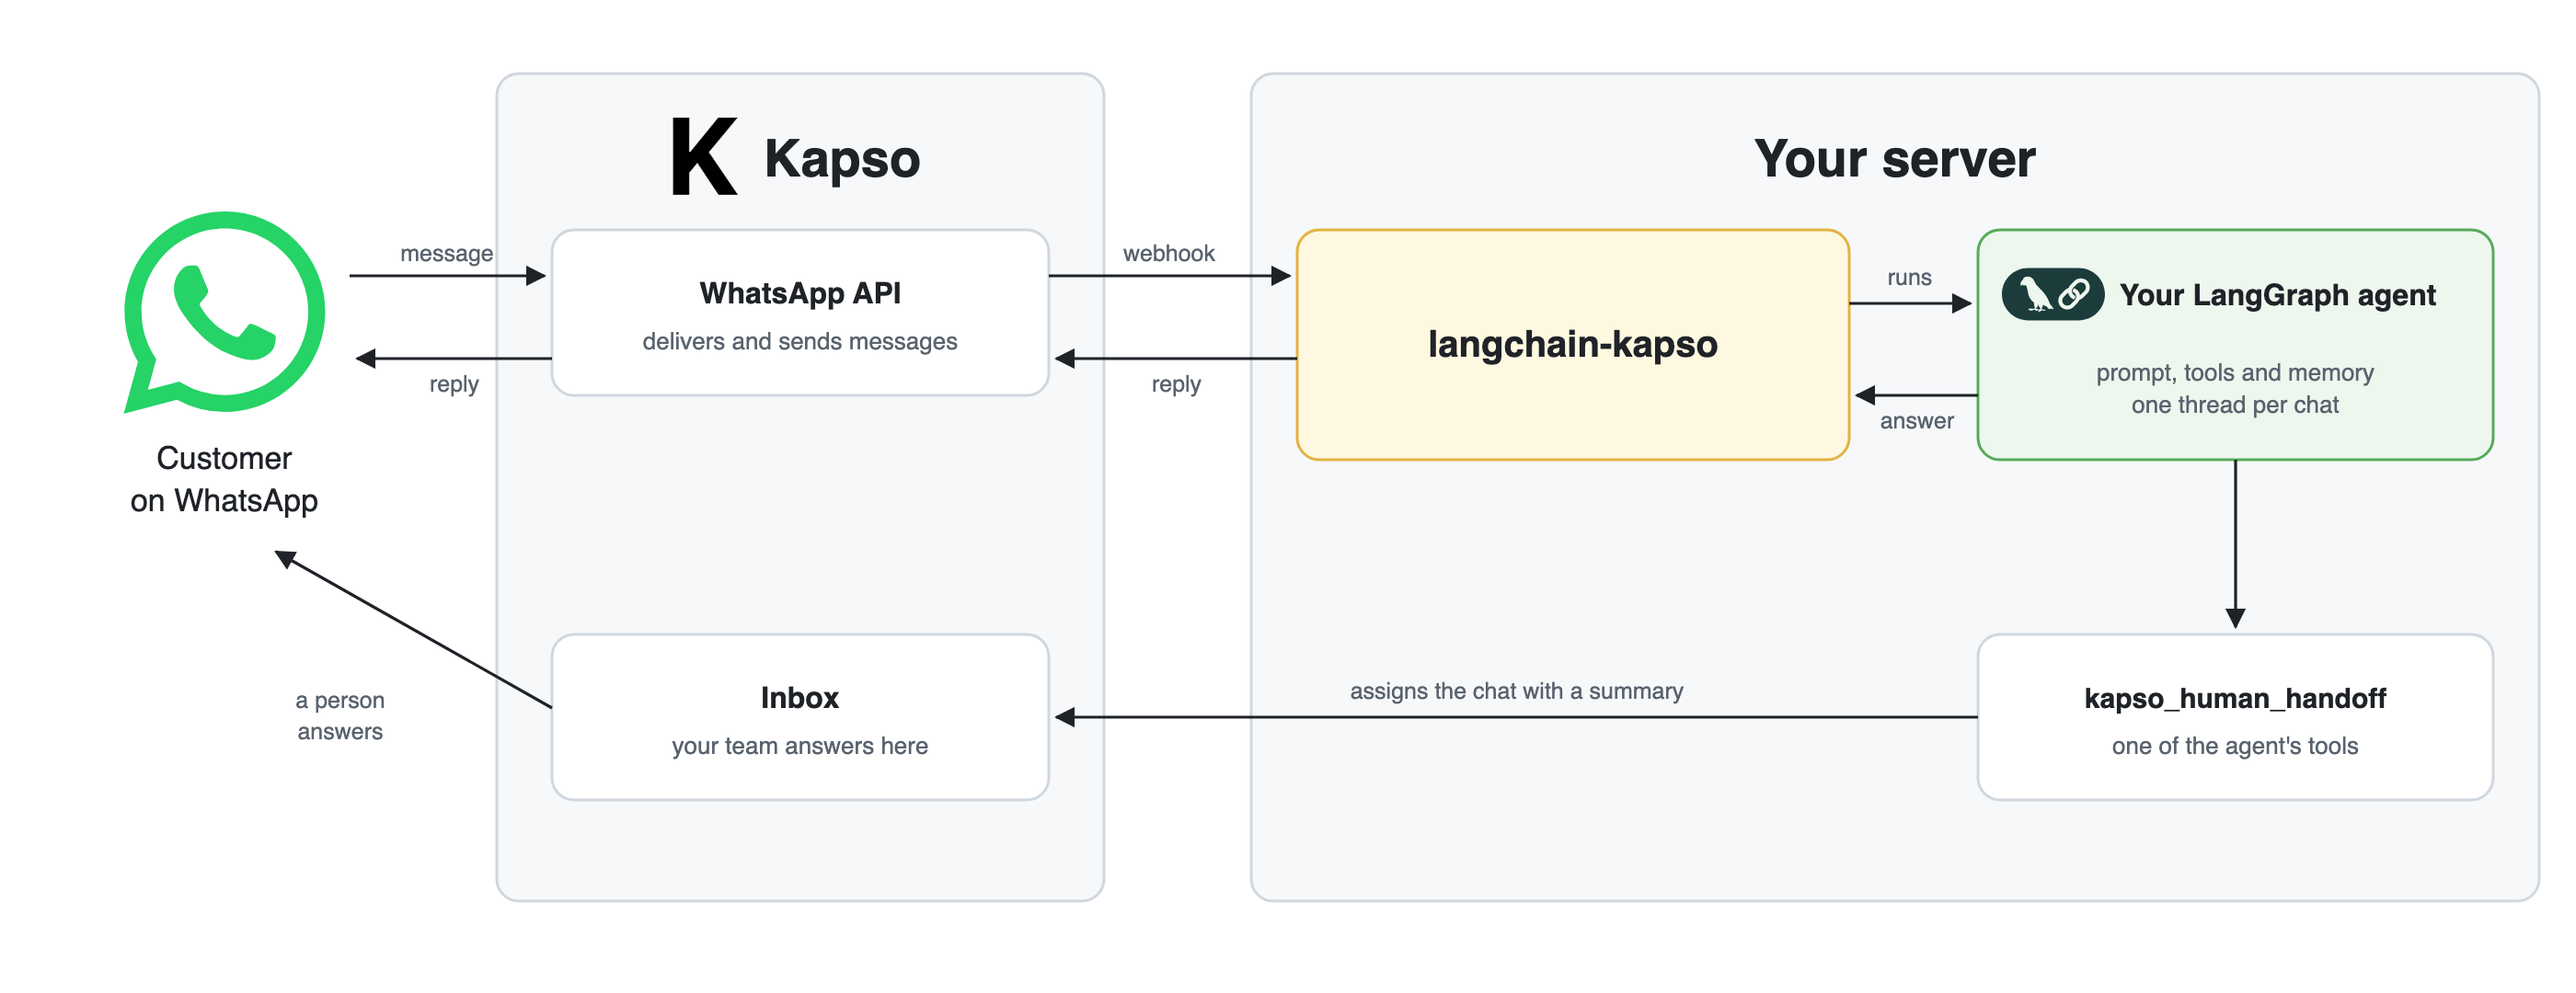
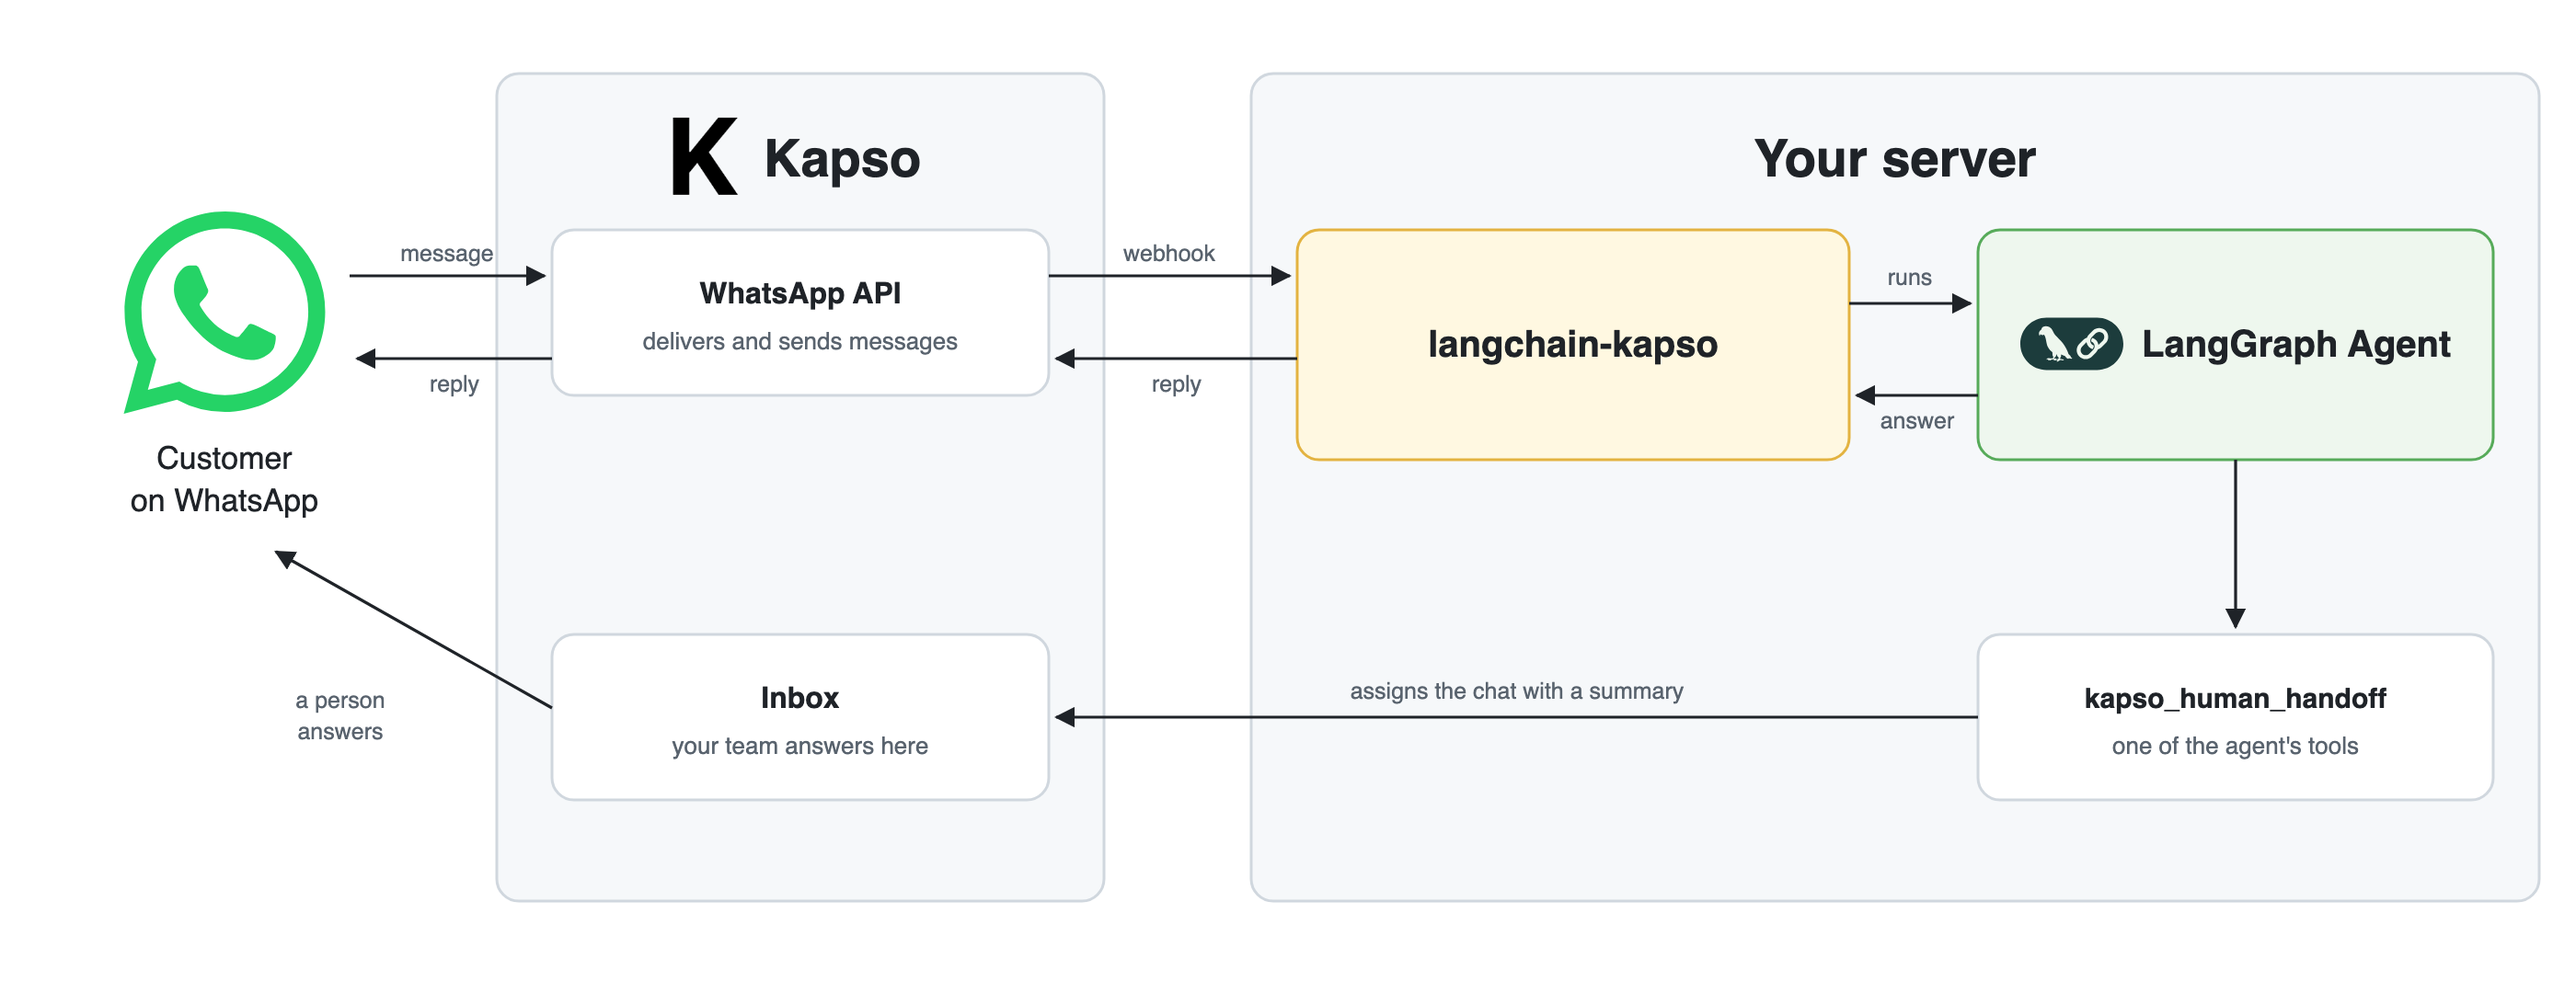
Diagram: agent box shows just LangGraph Agent

Changed region(s): [[0.7768, 0.2444, 0.9632, 0.4278]]

diff --git a/docs/architecture.py b/docs/architecture.py
@@ -78,9 +78,8 @@ text(1030, 96, "Your server", 28, weight="bold")
 box(705, 125, 300, 125, fill="#fff8e1", stroke="#e3b341")
 text(855, 194, "langchain-kapso", 20, weight="bold")
 box(1075, 125, 280, 125, fill="#eef7ee", stroke="#57ab5a")
-simple_icon("langchain", 1088, 132, 56, "#1C3C3C")
-text(1152, 166, "Your LangGraph agent", 16, anchor="start", weight="bold")
-text(1215, 207, "prompt, tools and memory\none thread per chat", 13, MUTED)
+simple_icon("langchain", 1098, 159, 56, "#1C3C3C")
+text(1164, 194, "LangGraph Agent", 20, anchor="start", weight="bold")
 box(1075, 345, 280, 90, fill="#ffffff")
 text(1215, 385, "kapso_human_handoff", 15, weight="bold")
 text(1215, 410, "one of the agent's tools", 13, MUTED)

diff --git a/README.md b/README.md
@@ -9,7 +9,7 @@
 > Community integration, not affiliated with Kapso or LangChain.
 
 <p align="center">
-  <img src="docs/architecture.png?v=4" alt="A customer writes on WhatsApp, Kapso sends the message to the langchain-kapso bridge on your server, the bridge runs your LangGraph agent and sends the reply back; the agent can hand the chat to a person in the Kapso inbox" width="100%"/>
+  <img src="docs/architecture.png?v=5" alt="A customer writes on WhatsApp, Kapso sends the message to the langchain-kapso bridge on your server, the bridge runs your LangGraph agent and sends the reply back; the agent can hand the chat to a person in the Kapso inbox" width="100%"/>
 </p>
 
 ## Why
